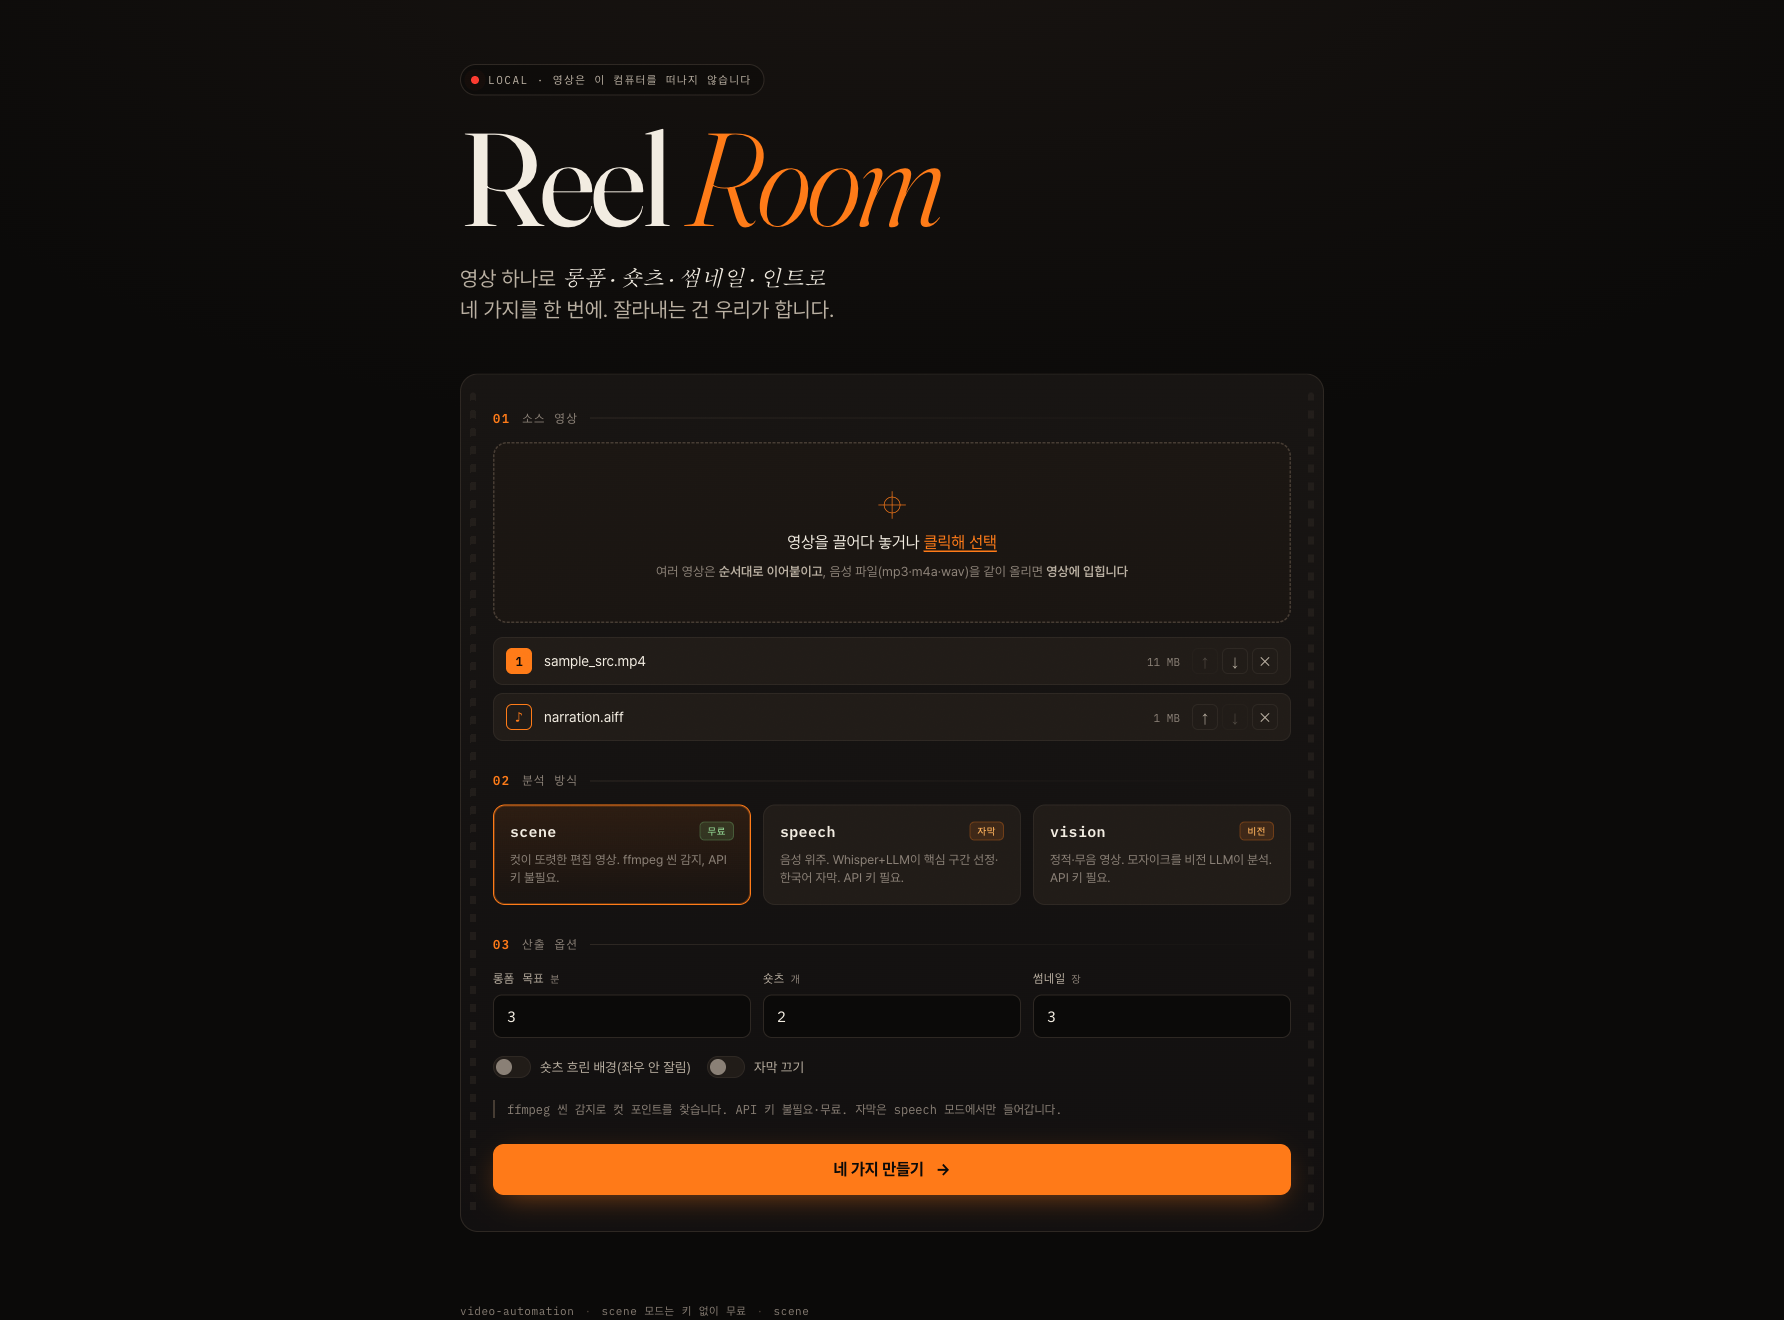
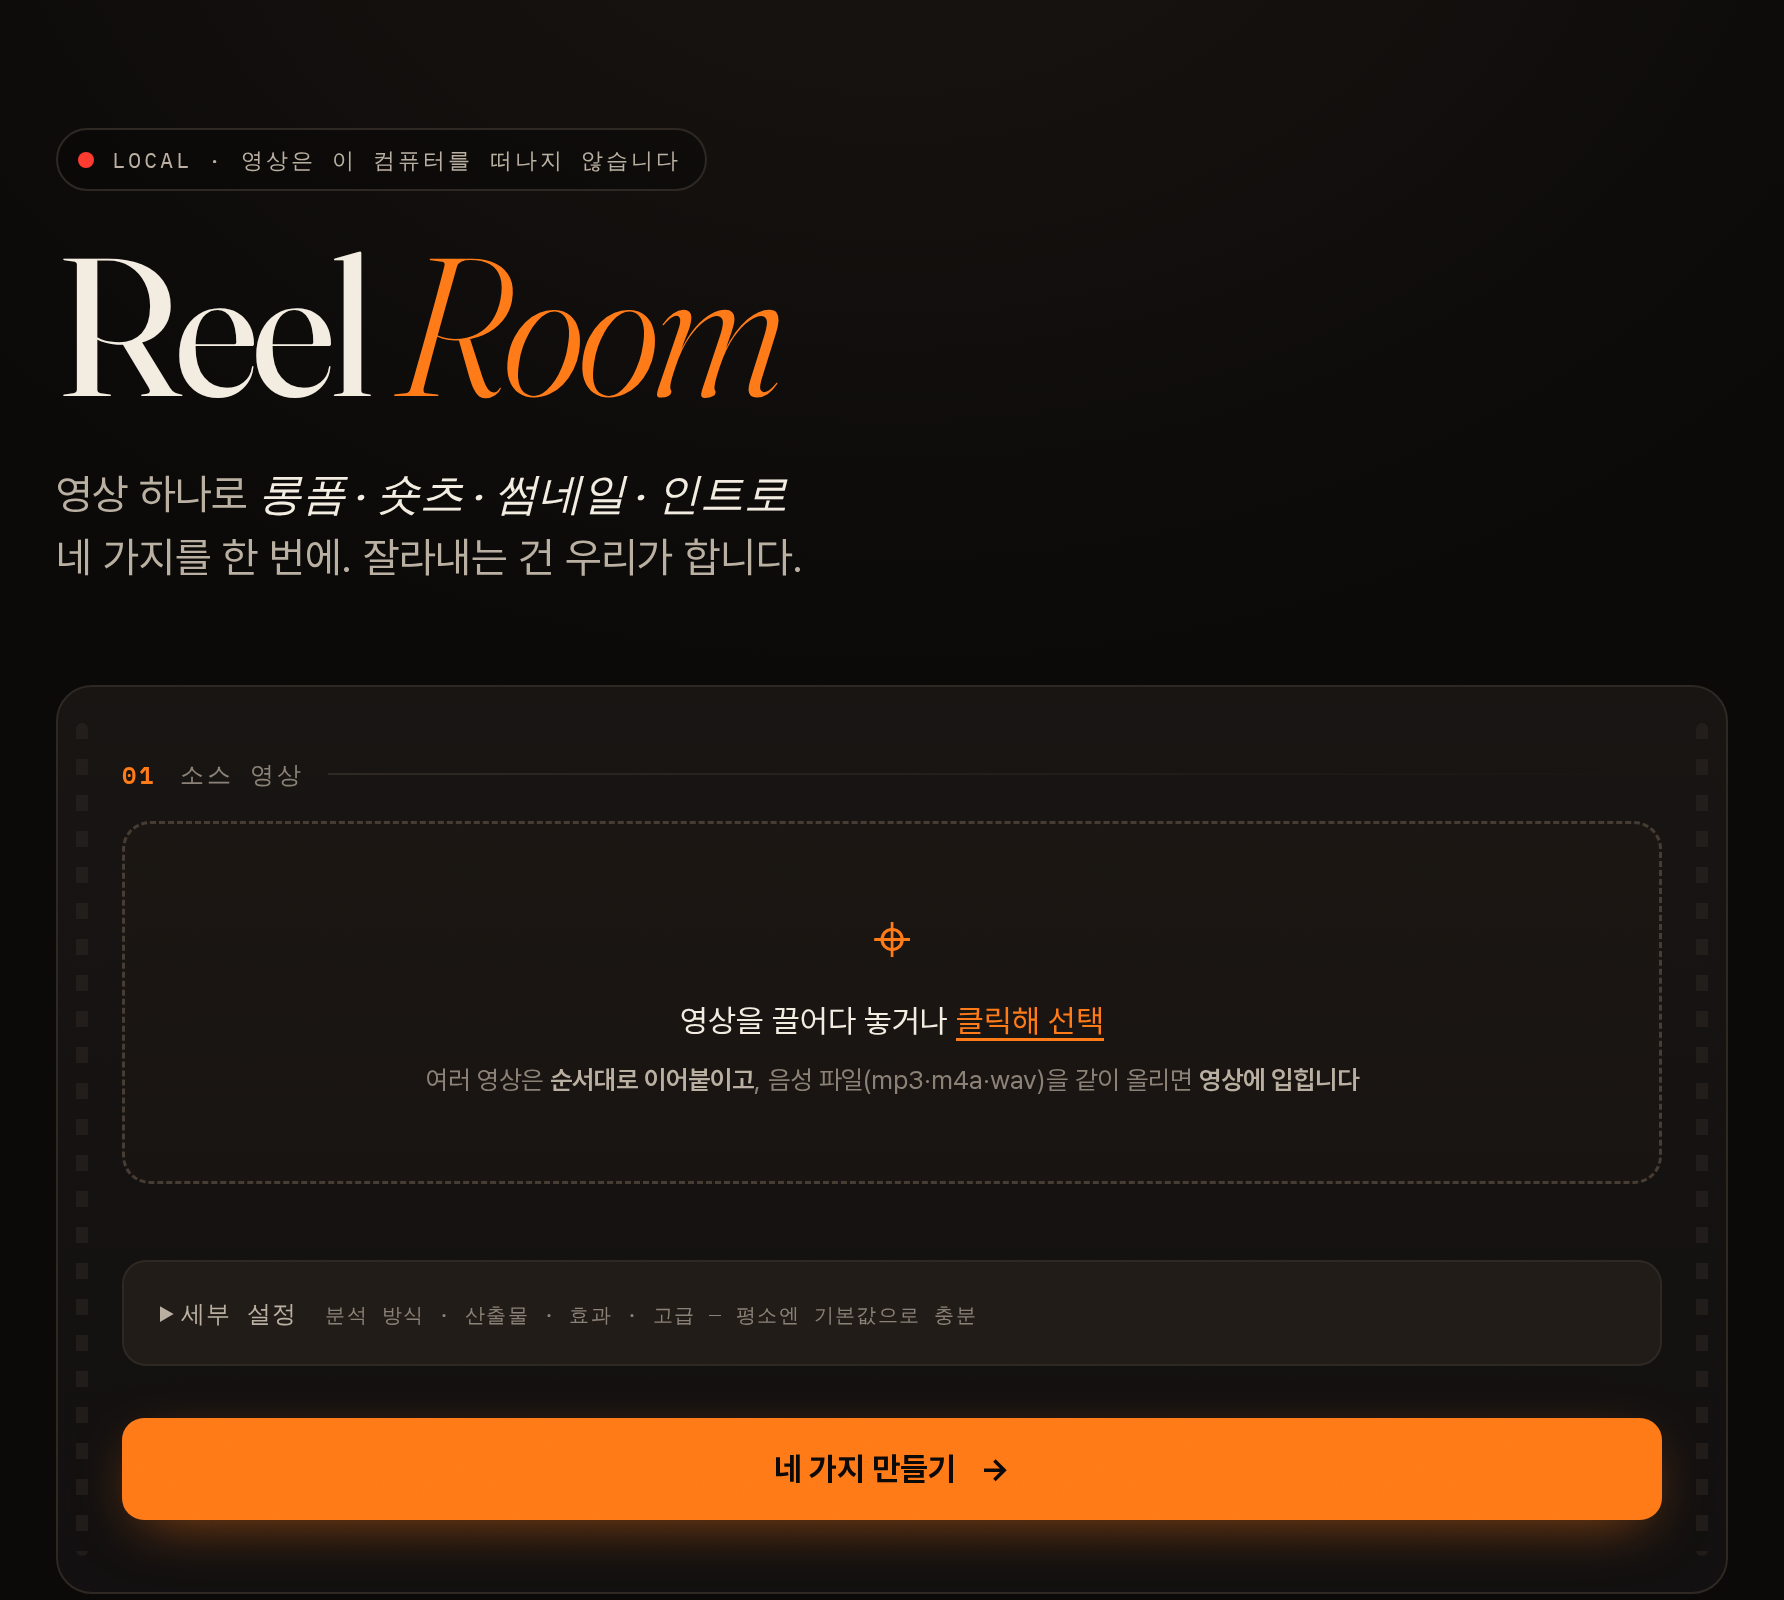
feat(ui): 업로드·완료 화면 선택지 축소 — 기본값 신뢰 + 단계적 노출
업로드 폼은 드롭존→세부 설정(접힘)→CTA만 남기고 모드·산출·효과·고급을
"세부 설정" 하나로 통합. 썸네일 미리보기는 영상을 올리면 자동 표시.
완료 화면 편집기는 실사용 3종(자막·음악·썸네일 타이틀)을 전면에,
효과·타임라인·발화 교정은 "고급 편집" 접힘으로. 효과 비교도 접힘.
요소 ID 전부 보존 — JS 변경은 썸네일 섹션 토글·비교 래핑 2곳.

diff --git a/web/static/index.html b/web/static/index.html
@@ -40,78 +40,82 @@
         </div>
         <ul id="file-list" class="file-list"></ul>
 
-        <!-- 모드 -->
-        <div class="step-num" data-n="02">분석 방식</div>
-        <div class="mode-cards" id="mode-cards">
-          <button type="button" class="mode-card selected" data-mode="auto">
-            <div class="mc-head"><span class="mc-name">auto</span><span class="badge free">추천</span></div>
-            <p class="mc-desc">영상을 보고 알아서 판별 — 발화가 있으면 speech, 컷이 있으면 scene, 아니면 vision.</p>
-          </button>
-          <button type="button" class="mode-card" data-mode="scene">
-            <div class="mc-head"><span class="mc-name">scene</span><span class="badge free">무료</span></div>
-            <p class="mc-desc">컷이 또렷한 편집 영상. ffmpeg 씬 감지, API 키 불필요. AI 장면 자막은 키 있을 때만 생성.</p>
-          </button>
-          <button type="button" class="mode-card" data-mode="speech">
-            <div class="mc-head"><span class="mc-name">speech</span><span class="badge key">자막</span></div>
-            <p class="mc-desc">음성 위주. Whisper+LLM이 핵심 구간 선정·한국어 자막. API 키 필요.</p>
-          </button>
-          <button type="button" class="mode-card" data-mode="vision">
-            <div class="mc-head"><span class="mc-name">vision</span><span class="badge key">비전</span></div>
-            <p class="mc-desc">정적·무음 영상. 모자이크를 비전 LLM이 분석. API 키 필요.</p>
-          </button>
-          <input type="hidden" name="mode" id="mode" value="auto">
-        </div>
-
-        <!-- 옵션 -->
-        <div class="step-num" data-n="03">산출 옵션</div>
-        <div class="options">
-          <label class="opt">
-            <span class="opt-label">롱폼 목표<em>분</em></span>
-            <input type="number" name="target_minutes" value="3" min="0.1" step="0.1">
-          </label>
-          <label class="opt">
-            <span class="opt-label">숏츠<em>개</em></span>
-            <input type="number" name="shorts_count" value="2" min="0" max="10">
-          </label>
-          <label class="opt">
-            <span class="opt-label">썸네일<em>장</em></span>
-            <input type="number" name="thumbnail_count" value="3" min="1" max="10">
-          </label>
-          <label class="opt">
-            <span class="opt-label">자막</span>
-            <select id="sub_mode">
-              <option value="fade" selected>애니메이션·페이드 (기본)</option>
-              <option value="kinetic">애니메이션·키네틱</option>
-              <option value="impact">임팩트 (원워드 슬램·스파크)</option>
-              <option value="pil">정적 (PIL)</option>
-              <option value="off">끄기</option>
-            </select>
-          </label>
-        </div>
-        <div class="toggles">
-          <label class="toggle"><input type="checkbox" class="out-pick" id="out_longform" value="longform" checked><span class="tg-box"></span>롱폼</label>
-          <label class="toggle"><input type="checkbox" class="out-pick" id="out_shorts" value="shorts" checked><span class="tg-box"></span>숏츠</label>
-          <label class="toggle"><input type="checkbox" class="out-pick" id="out_thumbnail" value="thumbnail" checked><span class="tg-box"></span>썸네일</label>
-          <label class="toggle"><input type="checkbox" class="out-pick" id="out_intro" value="intro" checked><span class="tg-box"></span>인트로</label>
-          <label class="toggle sub-only"><input type="checkbox" id="subtitle_only"><span class="tg-box"></span>자막만 (컷 편집 없이 원본 그대로 — 완성된 숏츠용)</label>
-        </div>
-        <div class="toggles">
-          <label class="toggle"><input type="checkbox" id="shorts_blur"><span class="tg-box"></span>숏츠 흐린 배경(좌우 안 잘림)</label>
-          <label class="toggle"><input type="checkbox" id="shorts_jumpcut" checked><span class="tg-box"></span>점프컷(무음 제거)</label>
-          <label class="toggle"><input type="checkbox" id="shorts_punchin" checked><span class="tg-box"></span>펀치인(줌 강조)</label>
-          <label class="toggle"><input type="checkbox" id="shorts_clean" checked><span class="tg-box"></span>클린 버전 함께(자막 없는 동일 컷)</label>
-          <label class="toggle"><input type="checkbox" id="scene_captions" checked><span class="tg-box"></span>AI 장면 자막(무발화 영상, scene·vision)</label>
-          <label class="toggle"><input type="checkbox" id="beat_sync" checked><span class="tg-box"></span>비트 싱크(음악 리듬에 컷·줌 전환)</label>
-          <label class="toggle"><input type="checkbox" id="bgm_auto" checked><span class="tg-box"></span>자동 BGM(라이브러리에서 무드 선곡)</label>
-        </div>
-
-        <details class="adv">
-          <summary>썸네일 타이틀 <small>문구 · 폰트 · 효과 — 영상을 올리면 미리보기</small></summary>
+        <!-- 썸네일 타이틀 — 영상을 올리면 자동으로 나타남 -->
+        <div id="thumb-form-sec" class="hidden">
+          <div class="step-num" data-n="02">썸네일 미리보기 <small>문구·폰트·효과 — 기본값 그대로도 충분</small></div>
           <div class="thumb-ctl" id="tc-form"></div>
-        </details>
+        </div>
 
-        <details class="adv">
-          <summary>고급 옵션 <small>크롭 초점 · 숏츠 길이 · 씬 감도 · BGM</small></summary>
+        <details class="adv settings">
+          <summary>세부 설정 <small>분석 방식 · 산출물 · 효과 · 고급 — 평소엔 기본값으로 충분</small></summary>
+
+          <div class="step-num">분석 방식</div>
+          <div class="mode-cards" id="mode-cards">
+            <button type="button" class="mode-card selected" data-mode="auto">
+              <div class="mc-head"><span class="mc-name">auto</span><span class="badge free">추천</span></div>
+              <p class="mc-desc">영상을 보고 알아서 판별 — 발화가 있으면 speech, 컷이 있으면 scene, 아니면 vision.</p>
+            </button>
+            <button type="button" class="mode-card" data-mode="scene">
+              <div class="mc-head"><span class="mc-name">scene</span><span class="badge free">무료</span></div>
+              <p class="mc-desc">컷이 또렷한 편집 영상. ffmpeg 씬 감지, API 키 불필요. AI 장면 자막은 키 있을 때만 생성.</p>
+            </button>
+            <button type="button" class="mode-card" data-mode="speech">
+              <div class="mc-head"><span class="mc-name">speech</span><span class="badge key">자막</span></div>
+              <p class="mc-desc">음성 위주. Whisper+LLM이 핵심 구간 선정·한국어 자막. API 키 필요.</p>
+            </button>
+            <button type="button" class="mode-card" data-mode="vision">
+              <div class="mc-head"><span class="mc-name">vision</span><span class="badge key">비전</span></div>
+              <p class="mc-desc">정적·무음 영상. 모자이크를 비전 LLM이 분석. API 키 필요.</p>
+            </button>
+            <input type="hidden" name="mode" id="mode" value="auto">
+          </div>
+          <p class="mode-note" id="mode-note"></p>
+
+          <div class="step-num">산출물</div>
+          <div class="options">
+            <label class="opt">
+              <span class="opt-label">롱폼 목표<em>분</em></span>
+              <input type="number" name="target_minutes" value="3" min="0.1" step="0.1">
+            </label>
+            <label class="opt">
+              <span class="opt-label">숏츠<em>개</em></span>
+              <input type="number" name="shorts_count" value="2" min="0" max="10">
+            </label>
+            <label class="opt">
+              <span class="opt-label">썸네일<em>장</em></span>
+              <input type="number" name="thumbnail_count" value="3" min="1" max="10">
+            </label>
+            <label class="opt">
+              <span class="opt-label">자막</span>
+              <select id="sub_mode">
+                <option value="fade" selected>애니메이션·페이드 (기본)</option>
+                <option value="kinetic">애니메이션·키네틱</option>
+                <option value="impact">임팩트 (원워드 슬램·스파크)</option>
+                <option value="pil">정적 (PIL)</option>
+                <option value="off">끄기</option>
+              </select>
+            </label>
+          </div>
+          <div class="toggles">
+            <label class="toggle"><input type="checkbox" class="out-pick" id="out_longform" value="longform" checked><span class="tg-box"></span>롱폼</label>
+            <label class="toggle"><input type="checkbox" class="out-pick" id="out_shorts" value="shorts" checked><span class="tg-box"></span>숏츠</label>
+            <label class="toggle"><input type="checkbox" class="out-pick" id="out_thumbnail" value="thumbnail" checked><span class="tg-box"></span>썸네일</label>
+            <label class="toggle"><input type="checkbox" class="out-pick" id="out_intro" value="intro" checked><span class="tg-box"></span>인트로</label>
+            <label class="toggle sub-only"><input type="checkbox" id="subtitle_only"><span class="tg-box"></span>자막만 (컷 편집 없이 원본 그대로 — 완성된 숏츠용)</label>
+          </div>
+
+          <div class="step-num">효과</div>
+          <div class="toggles">
+            <label class="toggle"><input type="checkbox" id="shorts_blur"><span class="tg-box"></span>숏츠 흐린 배경(좌우 안 잘림)</label>
+            <label class="toggle"><input type="checkbox" id="shorts_jumpcut" checked><span class="tg-box"></span>점프컷(무음 제거)</label>
+            <label class="toggle"><input type="checkbox" id="shorts_punchin" checked><span class="tg-box"></span>펀치인(줌 강조)</label>
+            <label class="toggle"><input type="checkbox" id="shorts_clean" checked><span class="tg-box"></span>클린 버전 함께(자막 없는 동일 컷)</label>
+            <label class="toggle"><input type="checkbox" id="scene_captions" checked><span class="tg-box"></span>AI 장면 자막(무발화 영상, scene·vision)</label>
+            <label class="toggle"><input type="checkbox" id="beat_sync" checked><span class="tg-box"></span>비트 싱크(음악 리듬에 컷·줌 전환)</label>
+            <label class="toggle"><input type="checkbox" id="bgm_auto" checked><span class="tg-box"></span>자동 BGM(라이브러리에서 무드 선곡)</label>
+          </div>
+
+          <div class="step-num">고급 <small>크롭 초점 · 숏츠 길이 · 씬 감도 · BGM</small></div>
           <div class="options">
             <label class="opt">
               <span class="opt-label">세로 크롭 초점</span>
@@ -150,7 +154,6 @@
           </div>
         </details>
 
-        <p class="mode-note" id="mode-note"></p>
         <button type="submit" id="submit-btn" class="cta">
           <span id="cta-label">네 가지 만들기</span>
           <span class="cta-arrow">→</span>
@@ -186,11 +189,11 @@
       <div id="compare"></div>
 
       <details id="editor" class="rebuild editor" open>
-        <summary>편집 <small>자막 스타일 · 효과 · 음악 · 구간 · 글자 — 바꾸고 "다시 만들기"</small></summary>
+        <summary>편집 <small>자막 · 음악 · 썸네일 타이틀 — 바꾸고 "적용해서 다시 만들기"</small></summary>
 
         <!-- ① 영상 자막 — 화면에 새겨지는 말자막 -->
         <div class="ed-sec">
-          <div class="step-num" data-n="01">영상 자막 <small>스타일·크기 — 문구는 아래 타임라인에서 구간별로</small></div>
+          <div class="step-num" data-n="01">영상 자막 <small>스타일·크기 — 문구는 고급 편집의 타임라인에서 구간별로</small></div>
           <div class="ed-row-flex">
             <div class="ed-col">
               <div class="style-picks" id="style-picks">
@@ -212,46 +215,49 @@
           </div>
         </div>
 
-        <!-- ② 효과·산출 -->
+        <!-- ② 음악 -->
         <div class="ed-sec">
-          <div class="step-num" data-n="02">효과 · 산출</div>
-          <div class="toggles eds-toggles">
-            <label class="toggle"><input type="checkbox" id="ed_jumpcut" checked><span class="tg-box"></span>점프컷</label>
-            <label class="toggle"><input type="checkbox" id="ed_punchin" checked><span class="tg-box"></span>펀치인</label>
-            <label class="toggle"><input type="checkbox" id="ed_blur"><span class="tg-box"></span>흐린 배경</label>
-            <label class="toggle"><input type="checkbox" id="ed_clean" checked><span class="tg-box"></span>클린 버전 함께</label>
-          </div>
-          <div class="eds-nums">
-            <label class="rb-num">숏츠<input type="number" id="ed_shorts" min="0" max="10" value="2"></label>
-            <label class="rb-num">썸네일<input type="number" id="ed_thumb" min="1" max="10" value="3"></label>
-            <label class="rb-num">BGM 볼륨<input type="number" id="ed_bgmvol" min="0.05" max="1" step="0.05" value="0.3"></label>
-          </div>
-        </div>
-
-        <!-- ③ 음악 -->
-        <div class="ed-sec">
-          <div class="step-num" data-n="03">음악</div>
+          <div class="step-num" data-n="02">음악</div>
           <div id="bgm-list" class="bgm-list"><p class="jp-empty">불러오는 중…</p></div>
         </div>
 
-        <!-- ④ 썸네일 타이틀 — 썸네일 이미지에만 (컨트롤은 JS 공용 템플릿) -->
+        <!-- ③ 썸네일 타이틀 — 썸네일 이미지에만 (컨트롤은 JS 공용 템플릿) -->
         <div class="ed-sec" id="thumb-group">
-          <div class="step-num" data-n="04">썸네일 타이틀 <small>썸네일 이미지에만 — 영상 자막과 별개</small></div>
+          <div class="step-num" data-n="03">썸네일 타이틀 <small>썸네일 이미지에만 — 영상 자막과 별개</small></div>
           <div class="thumb-ctl" id="tc-editor"></div>
         </div>
 
-        <!-- ⑤ 타임라인 — 구간별 편집 -->
-        <div class="ed-sec">
-          <div class="step-num" data-n="05">타임라인 <small>구간 탭 → 구간 자막·효과음·시간 편집</small></div>
-          <div class="tl-scroll" id="tl-scroll">
-            <div class="tl-head"><span>영상</span><span>글자</span><span class="tl-head-sfx">효과음</span></div>
-            <div class="tl-tracks" id="tl-tracks"></div>
-          </div>
-          <div id="seg-detail" class="seg-detail hidden"></div>
-        </div>
+        <!-- 고급 편집 — 효과·산출 개수·타임라인·발화 자막 교정 -->
+        <details class="adv ed-adv">
+          <summary>고급 편집 <small>효과 · 산출 개수 · 타임라인(구간·효과음) · 발화 자막 교정</small></summary>
 
-        <!-- ⑥ 발화 자막 교정 (speech) -->
-        <div id="transcript-edit"></div>
+          <div class="ed-sec">
+            <div class="step-num">효과 · 산출</div>
+            <div class="toggles eds-toggles">
+              <label class="toggle"><input type="checkbox" id="ed_jumpcut" checked><span class="tg-box"></span>점프컷</label>
+              <label class="toggle"><input type="checkbox" id="ed_punchin" checked><span class="tg-box"></span>펀치인</label>
+              <label class="toggle"><input type="checkbox" id="ed_blur"><span class="tg-box"></span>흐린 배경</label>
+              <label class="toggle"><input type="checkbox" id="ed_clean" checked><span class="tg-box"></span>클린 버전 함께</label>
+            </div>
+            <div class="eds-nums">
+              <label class="rb-num">숏츠<input type="number" id="ed_shorts" min="0" max="10" value="2"></label>
+              <label class="rb-num">썸네일<input type="number" id="ed_thumb" min="1" max="10" value="3"></label>
+              <label class="rb-num">BGM 볼륨<input type="number" id="ed_bgmvol" min="0.05" max="1" step="0.05" value="0.3"></label>
+            </div>
+          </div>
+
+          <div class="ed-sec">
+            <div class="step-num">타임라인 <small>구간 탭 → 구간 자막·효과음·시간 편집</small></div>
+            <div class="tl-scroll" id="tl-scroll">
+              <div class="tl-head"><span>영상</span><span>글자</span><span class="tl-head-sfx">효과음</span></div>
+              <div class="tl-tracks" id="tl-tracks"></div>
+            </div>
+            <div id="seg-detail" class="seg-detail hidden"></div>
+          </div>
+
+          <!-- 발화 자막 교정 (speech) -->
+          <div id="transcript-edit"></div>
+        </details>
 
         <div class="rebuild-opts">
           <button type="button" id="apply-btn" class="cta-sm">적용해서 다시 만들기 →</button>

diff --git a/web/static/style.css b/web/static/style.css
@@ -511,21 +511,34 @@ details.adv > summary {
   cursor: pointer;
   letter-spacing: 0.06em;
 }
+details.adv > summary:hover { color: var(--paper); }
 details.adv > summary small { color: var(--muted); margin-left: 6px; }
 details.adv .options { margin-top: 12px; }
 .bgm-opt input[type="file"] { font-size: 12px; color: var(--paper-dim); }
 
+/* 접힌 그룹 안의 무번호 헤더 — data-n 없으면 번호 자리 제거 */
+.step-num:not([data-n])::before { content: none; }
+
+/* 업로드 폼 세부 설정 — 평소엔 한 줄, 열면 박스 */
+details.settings {
+  margin-top: 24px;
+  background: var(--surface-2);
+  border: 1px solid var(--line);
+  border-radius: 12px;
+  padding: 4px 18px;
+}
+details.settings > summary { padding: 12px 0; }
+details.settings[open] { padding-bottom: 24px; }
+details.settings[open] > summary { border-bottom: 1px solid var(--line); }
+
+/* 편집기 고급 편집 — 실사용 3종(자막·음악·썸네일) 아래 구분선으로 분리 */
+.ed-adv { margin: 4px 0 18px; border-top: 1px dashed var(--line); padding-top: 16px; }
+.ed-adv[open] > summary { margin-bottom: 10px; }
+
 .dl-extra { display: inline-flex; gap: 10px; margin-left: auto; }
 .dl-extra .dl { font-family: var(--film); font-size: 12px; }
 
-.cmp-head {
-  font-family: var(--film);
-  font-size: 12px;
-  letter-spacing: 0.1em;
-  color: var(--paper-dim);
-  margin: 26px 0 10px;
-}
-.cmp-head small { color: var(--muted); margin-left: 6px; }
+.cmp-adv .cmp-row:first-of-type { margin-top: 12px; }
 .cmp-row { margin-bottom: 18px; }
 .cmp-videos { display: flex; gap: 10px; margin-top: 8px; }
 .cmp-videos video {

diff --git a/web/static/app.js b/web/static/app.js
@@ -123,6 +123,9 @@ function renderFileList() {
     li.append(idx, name, size, btns);
     ul.append(li);
   });
+  // 영상이 있어야 썸네일 미리보기 섹션이 나타난다 — 없으면 통째로 숨김
+  const hasVideo = pickedFiles.some((f) => !AUDIO_RE.test(f.name) && !f.type.startsWith("audio/"));
+  $("thumb-form-sec").classList.toggle("hidden", !hasVideo);
   formTC.refresh(); // 첫 영상이 바뀌면 썸네일 타이틀 미리보기 바탕도 갱신
 }
 
@@ -545,7 +548,7 @@ function renderCompare(jobId, o) {
   const clean = o.shorts_clean || [];
   const n = Math.min(full.length, clean.length);
   if (!n) return;
-  let html = `<div class="cmp-head">효과 비교 <small>왼쪽 풀 효과 · 오른쪽 클린</small></div>`;
+  let html = `<details class="adv cmp-adv"><summary>효과 비교 <small>왼쪽 풀 효과 · 오른쪽 클린 — 동시 재생</small></summary>`;
   for (let i = 0; i < n; i++) {
     html += `<div class="cmp-row" data-i="${i}">
       <button type="button" class="cta-sm cmp-play" data-i="${i}">숏츠 ${i + 1} 동시 재생 ▶</button>
@@ -555,6 +558,7 @@ function renderCompare(jobId, o) {
       </div>
     </div>`;
   }
+  html += `</details>`;
   el.innerHTML = html;
   el.querySelectorAll(".cmp-play").forEach((btn) => {
     btn.addEventListener("click", () => {